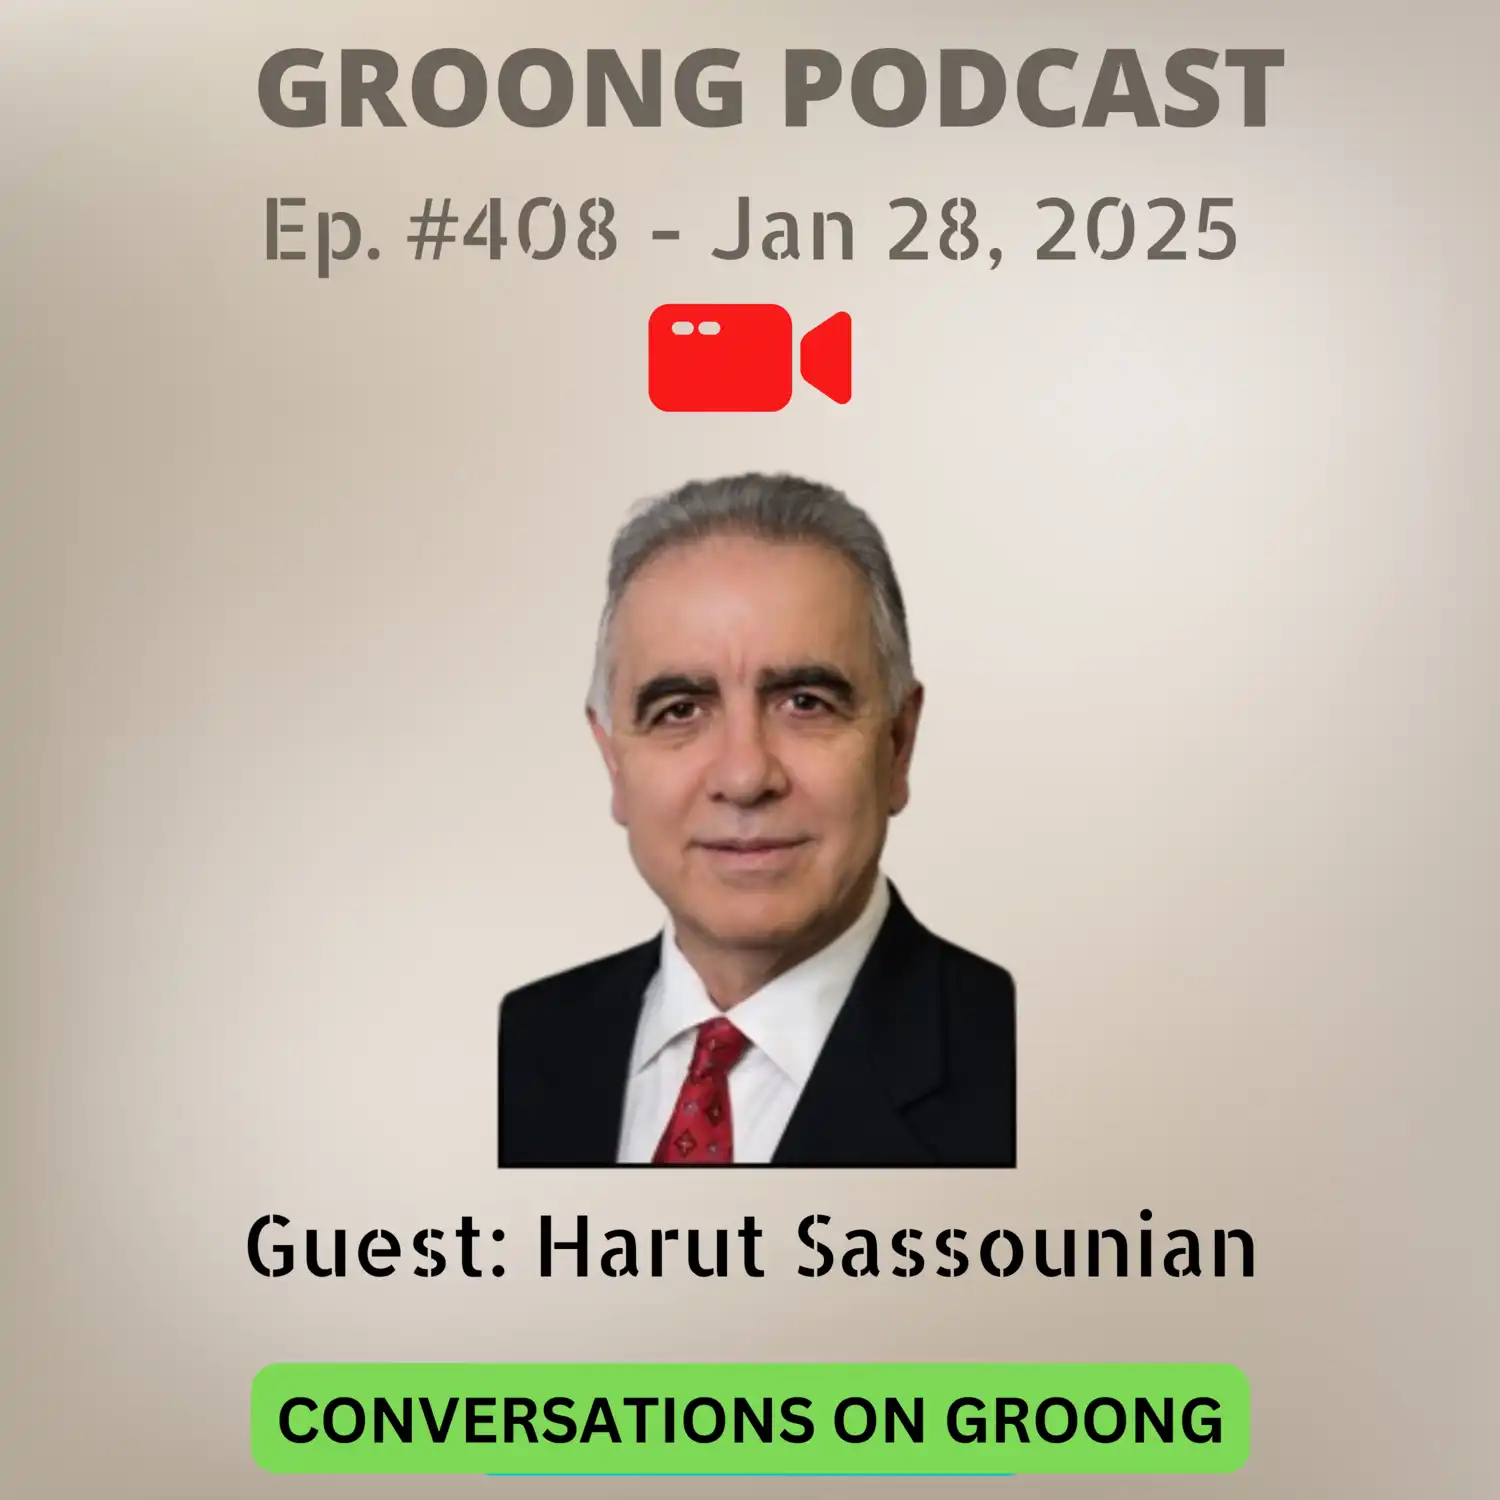
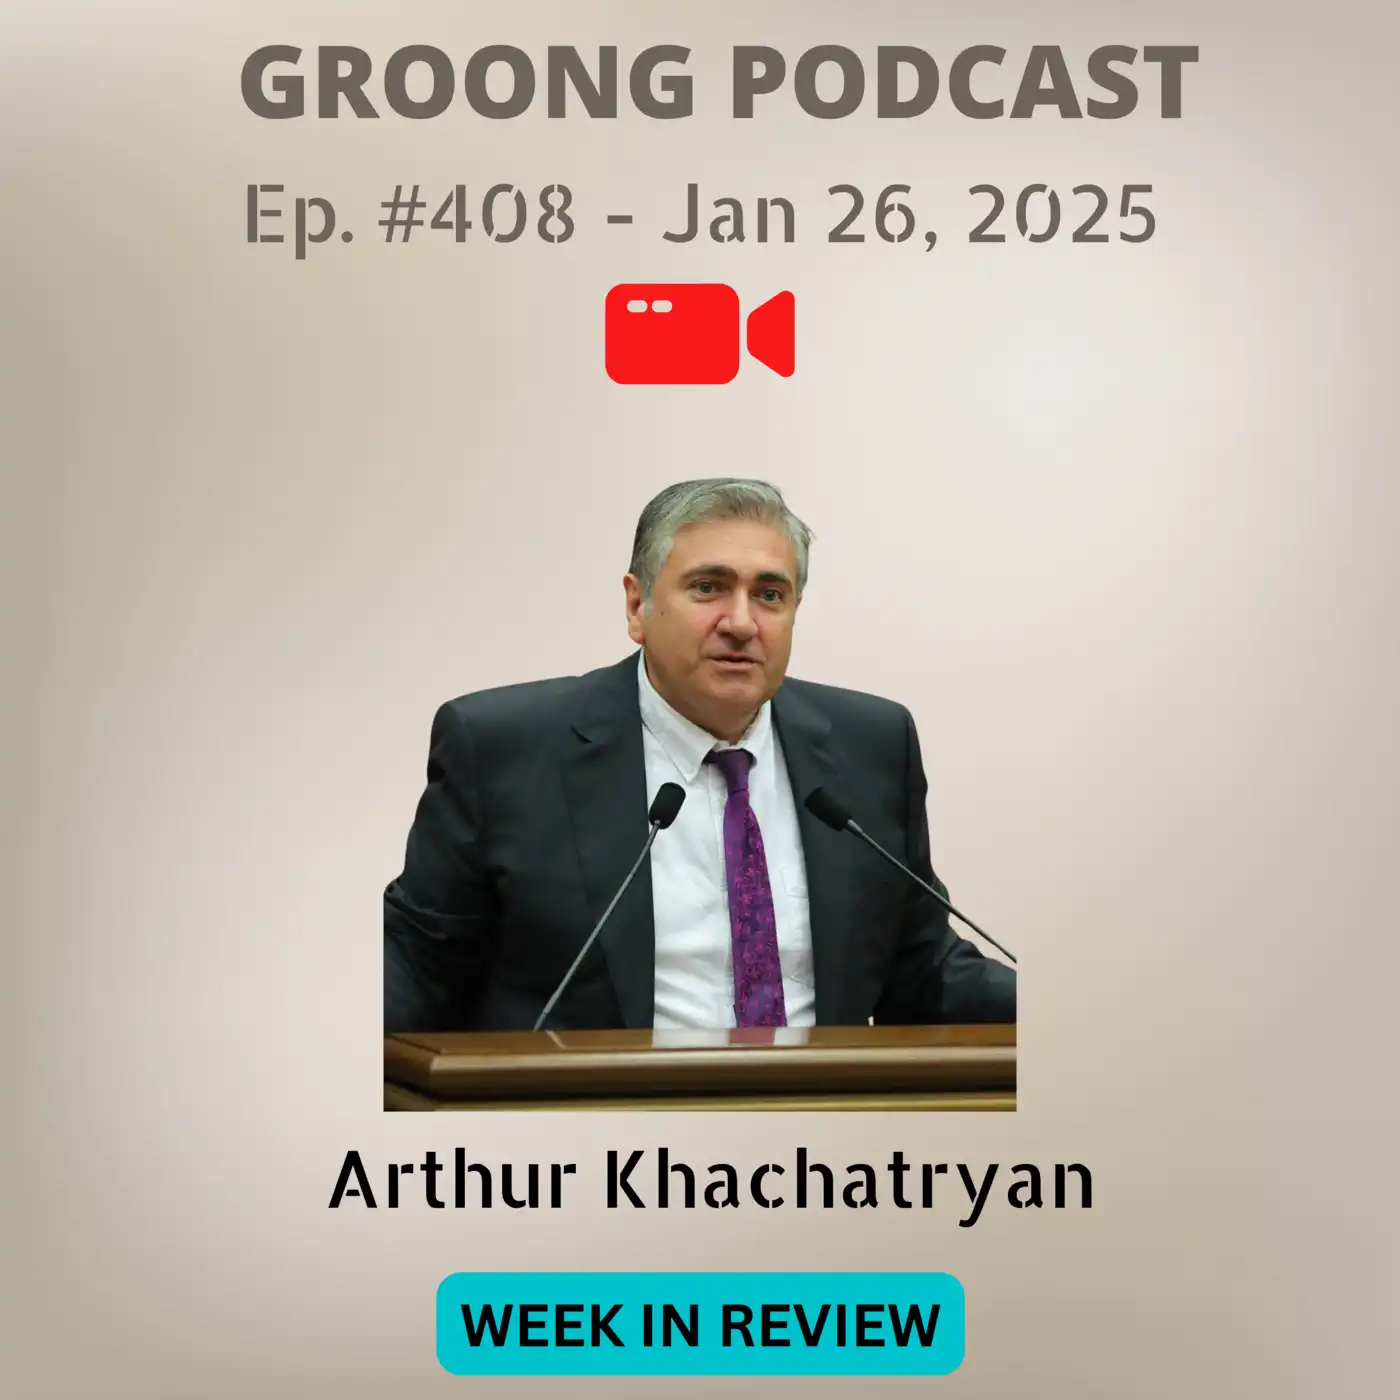
EP 408 now with Arthur Khachatryan. Rename EP with Harut Sassounian to EP 409

diff --git a/content/episode/408-arthur-khachatryan-mirzoyan-in-moscow-kostanyan-in-tehran-borders-fis-annual-report-silence-of-the-lambs.md b/content/episode/408-arthur-khachatryan-mirzoyan-in-moscow-kostanyan-in-tehran-borders-fis-annual-report-silence-of-the-lambs.md
@@ -1,0 +1,62 @@
++++
+Date = 2025-02-01T00:00:00+04:00
+upcoming = true
+
+title = "Arthur Khachatryan - Mirzoyan in Moscow, Kostanyan in Tehran, Mher Grigoryan on the Border, FIS Annual Report, Silence of the Lambs | Ep 409, Jan 26, 2025
+subtitle = "Week in Review - 01/26/2025"
+author = "Armenian News Network - Groong"
+
+podcast_file = ""
+podcast_duration = ""
+podcast_bytes = ""
+youtube = ""
+
+episode_image = "img/episode/408/thumbnail-408.webp"
+episode_banner = "img/episode/408/banner-408.webp"
+images = ["img/episode/408/banner-408.webp"]
+
+guests = ["akhachatryan"]
+hosts = ["asbed","hovik"]
+
+episode = "408"
+aliases = ["/408"]
+
+series = ["wir"]
+categories = ["Armenia", "Artsakh", "Nagorno Karabakh","Economy"]
+explicit = "no" # values are "yes" or "no"
+tags = ["Armenian News", "Artsakh", "Nagorno Karabakh", "Arthur Khachatryan", "Armenia", "Azerbaijan", "Georgia", "South Caucasus", "Turkey", "Russia", "Corridors", "Borders", "Peace", " Negotiations", "Kristinne Grigoryan", "Foreign Intelligence Service", "Annual Report", "CIA", "MI6", "Western Intelligence Agency", "Tavush", "Tavush Movement", "Bagrat Srbazan"]
+
+Description = """
+
+#### Groong Links:
+* [GIVE to GROONG](https://podcasts.groong.org/donate)
+* [linktr.ee/Groong](https://linktr.ee/groong)
+
+#### Guest:
+* [Mr. Arthur Khachatryan](/guest/akhachatryan)
+
+#### Topics:
+* Mirzoyan in Moscow
+* Vahan Kostanyan in Tehran
+* Mher Grigoryan on the Border (concessions)
+* FIS Annual Report 2025
+* The Silence of the Lambs
+
+
+
+Episode 408 | Recorded: January 29, 2025
+"""
+
++++
+
+
+
+# Wrap-up
+
+That’s our [show](https://podcasts.groong.org/)! We hope you found it useful. Please find us on [Social Media](https://linktr.ee/groong) and follow us everywhere you get your Armenian news.
+
+Thanks to **Laura Osborn** for the music on our podcasts.
+
+Don't forget to support us!
+* [Patreon - Support Groong](https://www.patreon.com/ann_groong)
+* [Buy Me a Coffee - Support Groong](https://www.buymeacoffee.com/groong)

diff --git a/content/episode/409-harut-sassounian-kirk-kerkorians-benevolent-engagement-with-armenia.md b/content/episode/409-harut-sassounian-kirk-kerkorians-benevolent-engagement-with-armenia.md
@@ -1,24 +1,24 @@
 +++
-Date = 2025-01-28T11:00:00+04:00
+Date = 2025-02-01T11:00:00+04:00
 upcoming = true
 
-title = "Harut Sassounian - Billionaire Kirk Kerkorian’s Benevolent Engagement with Armenia | Ep 408, Jan 25, 2025"
-subtitle = "Conversations on Groong - 01/25/2024"
+title = "Harut Sassounian - Billionaire Kirk Kerkorian’s Benevolent Engagement with Armenia | Ep 409, Feb 1, 2025"
+subtitle = "Conversations on Groong - 02/01/2024"
 
 podcast_file = ""
 podcast_bytes = ""
 podcast_duration = ""
 youtube = ""
 
-episode_image = "img/episode/408/thumbnail-408.webp"
-episode_banner = "img/episode/408/banner-408.webp"
-images = ["img/episode/408/banner-408.webp"]
+episode_image = "img/episode/409/thumbnail-409.webp"
+episode_banner = "img/episode/409/banner-409.webp"
+images = ["img/episode/409/banner-409.webp"]
 
 guests = ["hsassounian"]
 hosts = ["asbed","hovik"]
 
-episode = "408"
-aliases = ["/408"]
+episode = "409"
+aliases = ["/409"]
 
 series = ["cog"]
 categories = ["Armenia"]
@@ -39,7 +39,7 @@ Description = """
 * TBD
 
 
-Episode 408 | Recorded: January 22, 2025
+Episode 409 | Recorded: February 1, 2025
 """
 
 +++
